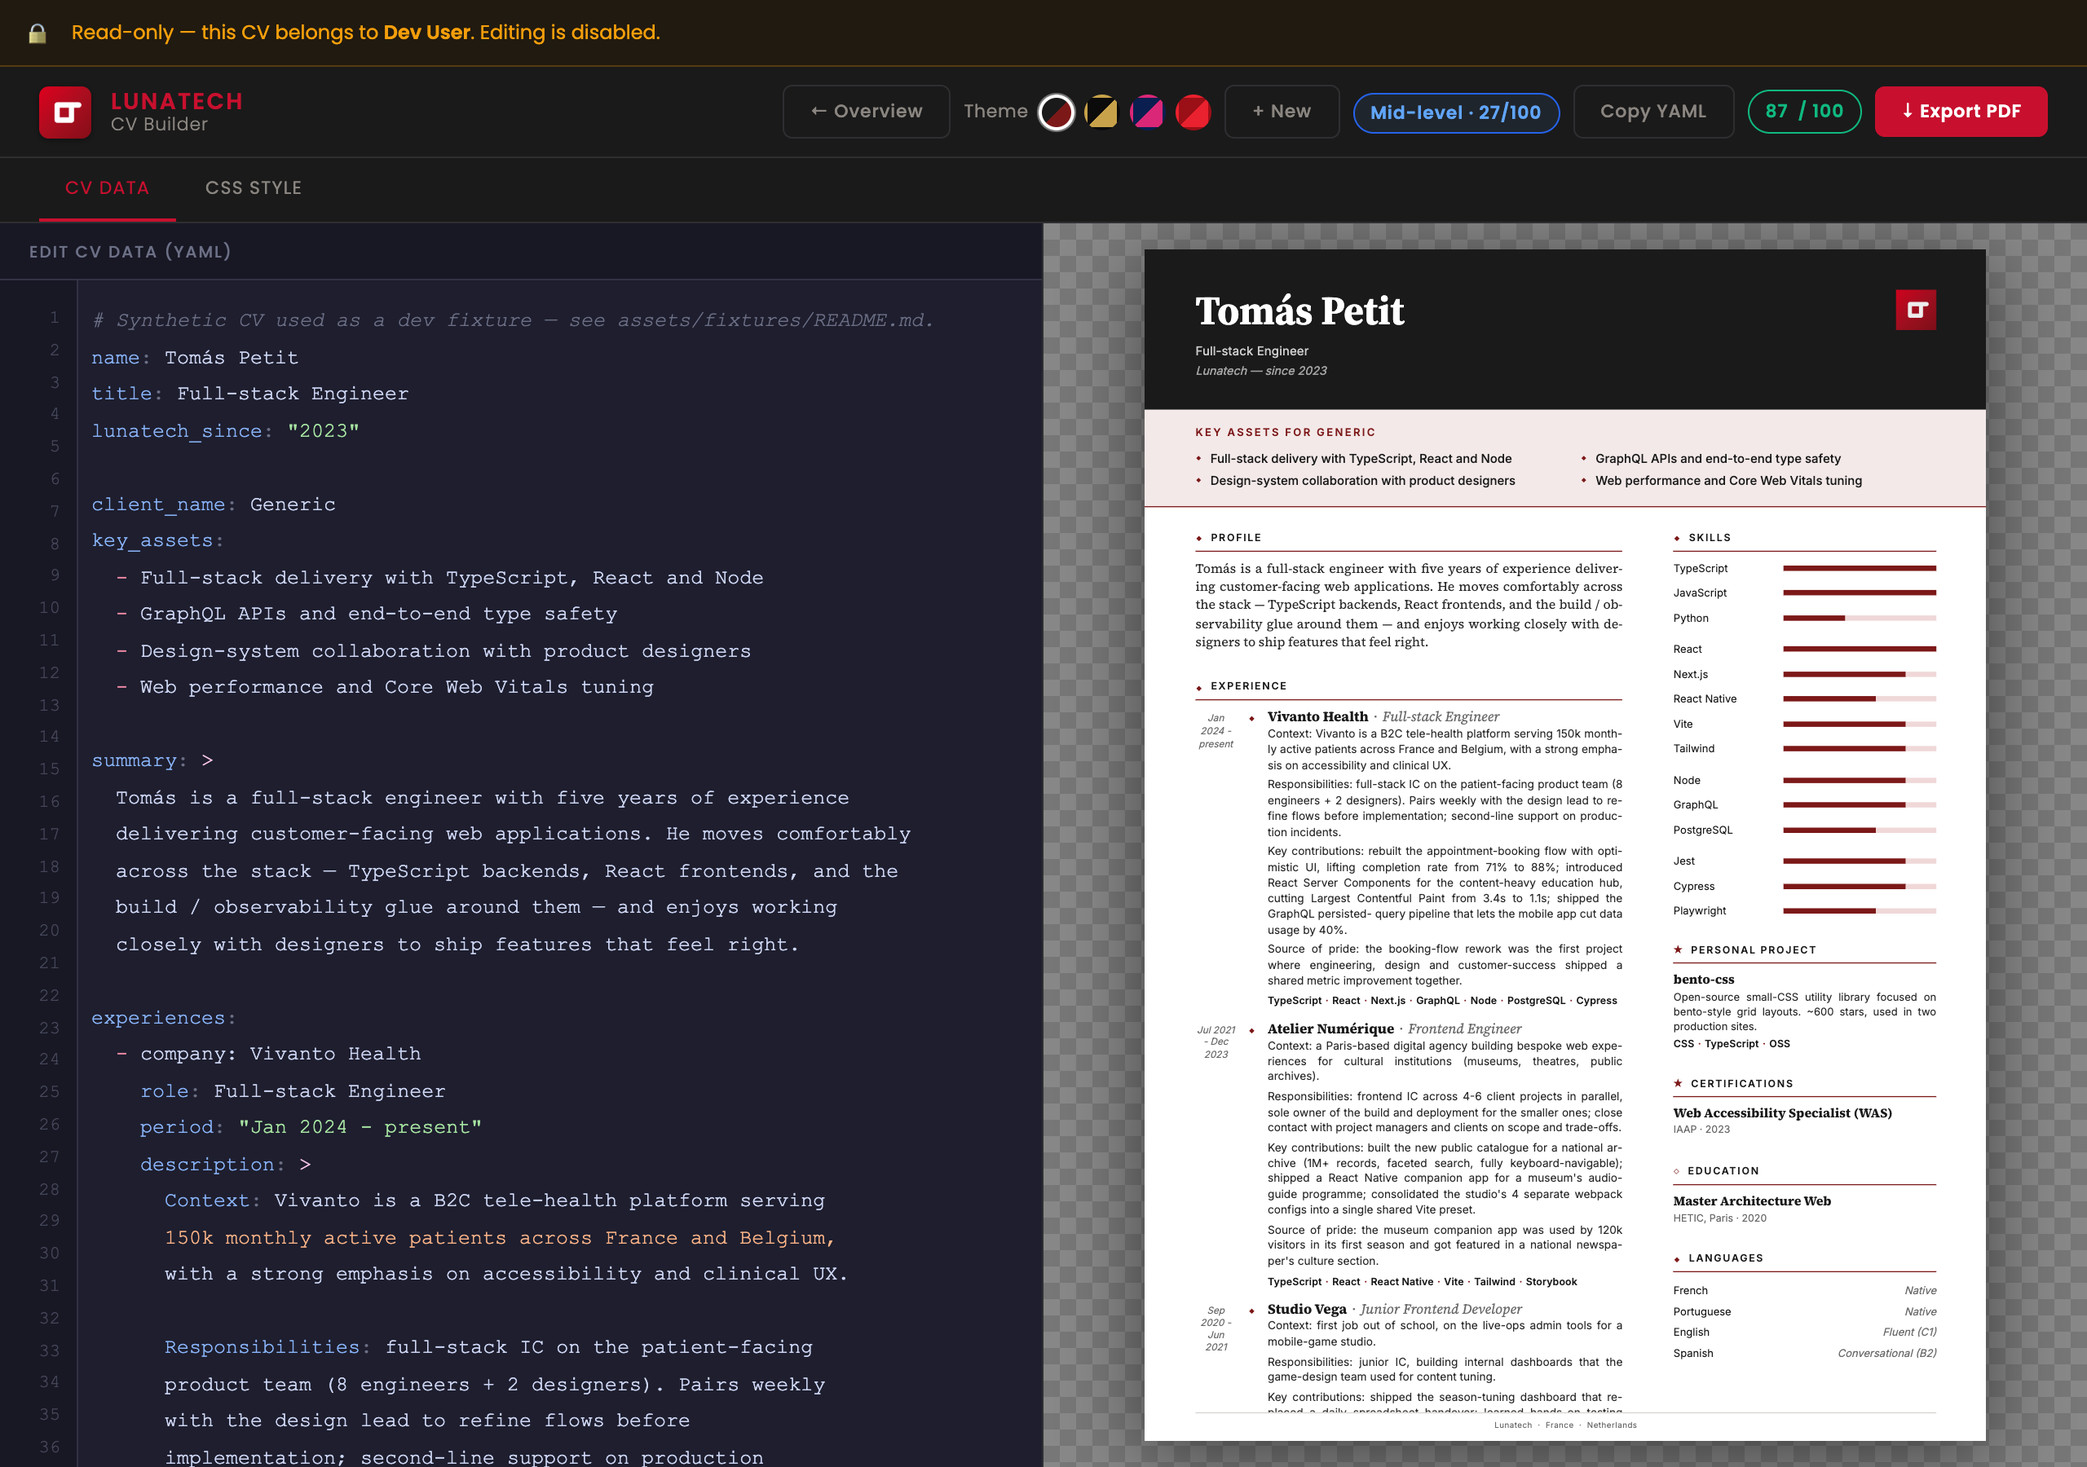
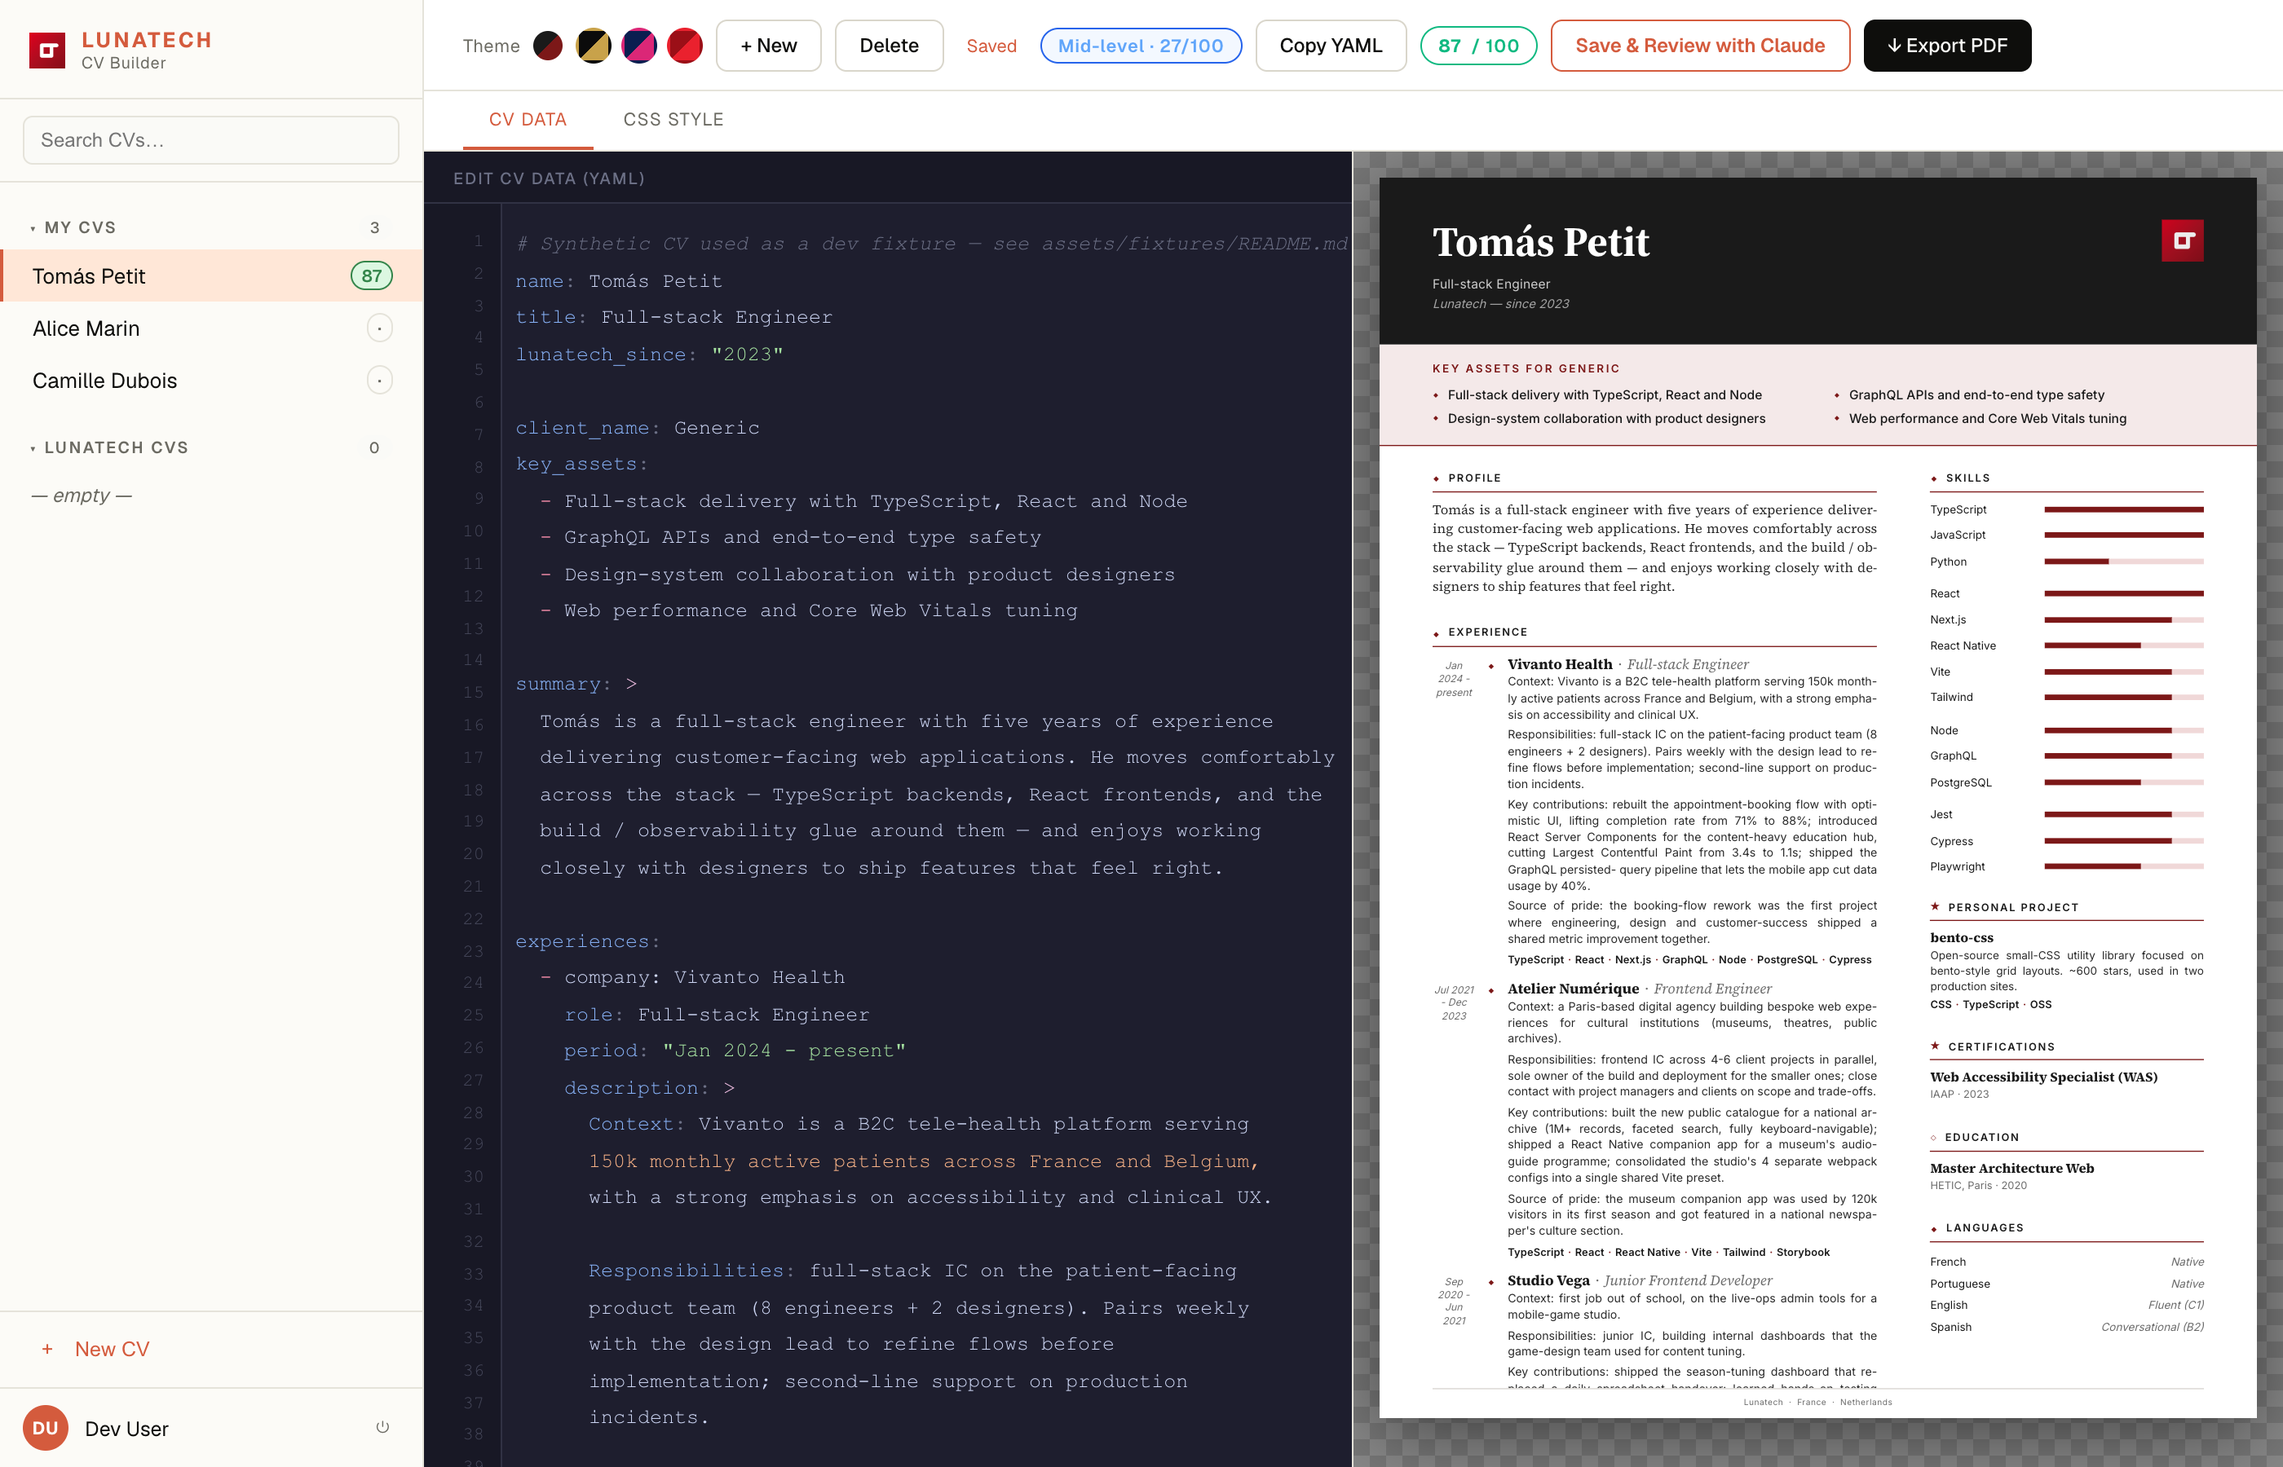
Switch UI chrome to the Ferrite Lunatech palette
The dark navy / magenta direction came from lunatech.com's marketing
site but Lunatech's modern product design is the Ferrite landing's
warm off-white + rust + Instrument Serif combo. Aligning so the CV
Builder, Ferrite, and any future Lunatech product share one design
language.

What changed on the chrome:
  --ui-bg        #0a0e1f navy   →  #FAFAF7 off-white
  --ui-surface   #101427        →  #FFFFFF
  --ui-surface-2 #1a2040        →  #FCFBF7 (warm sidebar)
  --ui-border    #1f2542        →  #E5E3DA
  --ui-text      #ece8e4 light  →  #0E0E0C near-black
  --ui-accent    #DB2777 mag.   →  oklch(0.62 0.16 35) rouille
  --ui-accent-soft               →  cream
  + --ui-good / --ui-warn / --ui-bad in oklch
  + --ui-accent-ink for terracotta accents

Fonts:
  body  Poppins  →  Geist (sans) + Inter fallback
  code  —        →  Geist Mono
  italic accents —  →  Instrument Serif (.serif helper)

Button convention follows Ferrite:
  primary = near-black ink (default strong action)
  accent  = rouille (reserved for review / brand moments)
  ghost   = outlined ink

Stripped setTheme()'s docRoot.style.setProperty calls that used to
flip --ui-bg / --ui-accent / etc. whenever the CV preview theme
changed — UI chrome and CV theme are now decoupled. The CV theme
switcher still drives data-theme on #cv-root for the preview and
the ?theme= query for the PDF render, as before.

The YAML code editor stays on its Catppuccin Mocha dark palette —
[…]

diff --git a/frontend/index.html b/frontend/index.html
@@ -5,23 +5,58 @@
 <meta name="viewport" content="width=device-width, initial-scale=1.0">
 <title>Lunatech CV Builder</title>
 <link rel="icon" type="image/png" href="/assets/lunatech-logo-alone.png">
-<link href="https://fonts.googleapis.com/css2?family=Inter:wght@400;500;600;700&family=Source+Serif+4:ital,opsz,wght@0,8..60,400;0,8..60,600;0,8..60,700;1,8..60,400;1,8..60,600&family=EB+Garamond:ital,wght@0,400;0,500;0,600;0,700;1,400;1,500&family=Poppins:ital,wght@0,300;0,400;0,500;0,600;1,300&display=swap" rel="stylesheet">
+<link rel="preconnect" href="https://fonts.googleapis.com">
+<link rel="preconnect" href="https://fonts.gstatic.com" crossorigin>
+<!-- UI: Geist (sans) + Geist Mono (code) + Instrument Serif (italic accents).
+     CV preview / PDF: Source Serif 4 + EB Garamond + Inter (unchanged). -->
+<link href="https://fonts.googleapis.com/css2?family=Geist:wght@300;400;500;600;700&family=Geist+Mono:wght@400;500&family=Instrument+Serif&family=Inter:wght@400;500;600;700&family=Source+Serif+4:ital,opsz,wght@0,8..60,400;0,8..60,600;0,8..60,700;1,8..60,400;1,8..60,600&family=EB+Garamond:ital,wght@0,400;0,500;0,600;0,700;1,400;1,500&display=swap" rel="stylesheet">
 <script src="https://cdnjs.cloudflare.com/ajax/libs/js-yaml/4.1.0/js-yaml.min.js"></script>
 <script src="https://cdn.jsdelivr.net/npm/marked@12.0.2/marked.min.js"></script>
 <style>
 *, *::before, *::after { box-sizing: border-box; margin: 0; padding: 0; }
 :root {
-  /* ── UI theme vars — Lunatech (rouge / noir) ── */
-  --ui-bg:      #0f0f10;
-  --ui-surface: #1a1a1a;
-  --ui-border:  #2e2e32;
-  --ui-accent:  #c8102e;
-  --ui-accent-deep: #7c1818;
-  --ui-text:    #ece8e4;
-  --ui-muted:   #8a8580;
-  --ui-tab-active: #c8102e;
+  /* ── UI theme vars — Lunatech "Ferrite" palette ──────────────────────
+     Off-white chaud + accent rouille + serif italique en accent
+     éditorial. Mêmes tokens que la landing Ferrite (sister product)
+     pour que tout l'écosystème Lunatech ait la même couleur de peau.
+     Fonts : Geist (sans), Geist Mono (code/numbers), Instrument Serif
+     (italic accents). */
+  --ui-bg:           #FAFAF7;                   /* off-white chaud */
+  --ui-bg-2:         #F3F2EC;                   /* hover, secondary surface */
+  --ui-surface:      #FFFFFF;                   /* cards */
+  --ui-surface-2:    #FCFBF7;                   /* sidebar (warm-tinted white) */
+  --ui-border:       #E5E3DA;                   /* hairline */
+  --ui-border-2:     #D9D6CB;                   /* stronger border */
+  --ui-text:         #0E0E0C;                   /* near-black ink */
+  --ui-text-2:       #2A2A26;                   /* secondary ink */
+  --ui-muted:        #6B6A62;                   /* muted brown-grey */
+  --ui-muted-2:      #9B9A91;
+  --ui-accent:       oklch(0.62 0.16 35);       /* rouille */
+  --ui-accent-ink:   oklch(0.42 0.14 35);       /* terracotta deep */
+  --ui-accent-soft:  oklch(0.95 0.04 50);       /* crème */
+  --ui-good:         oklch(0.55 0.12 150);      /* green */
+  --ui-good-soft:    oklch(0.95 0.04 150);
+  --ui-warn:         oklch(0.70 0.14 75);       /* amber */
+  --ui-bad:          oklch(0.58 0.18 25);       /* red */
+  --ui-bad-soft:     oklch(0.95 0.05 25);
+  --ui-accent-deep:  oklch(0.42 0.14 35);       /* alias pour le code historique */
+  --ui-tab-active:   oklch(0.62 0.16 35);
 }
-body { font-family: 'Poppins', sans-serif; background: var(--ui-bg); color: var(--ui-text); height: 100vh; display: flex; flex-direction: column; overflow: hidden; transition: background .3s, color .3s; }
+body {
+  font-family: 'Geist', 'Inter', -apple-system, system-ui, sans-serif;
+  font-feature-settings: 'ss01', 'cv11';
+  -webkit-font-smoothing: antialiased;
+  text-rendering: optimizeLegibility;
+  background: var(--ui-bg);
+  color: var(--ui-text);
+  height: 100vh;
+  display: flex;
+  flex-direction: column;
+  overflow: hidden;
+  transition: background .3s, color .3s;
+}
+.serif { font-family: 'Instrument Serif', Georgia, serif; font-style: italic; font-weight: 400; color: var(--ui-accent-ink); }
+.mono  { font-family: 'Geist Mono', ui-monospace, SFMono-Regular, Menlo, monospace; }
 .app-header { display: flex; align-items: center; justify-content: space-between; padding: 0 24px; height: 56px; border-bottom: 1px solid var(--ui-border); flex-shrink: 0; background: var(--ui-surface); transition: background .3s, border-color .3s; }
 .app-logo { display: flex; align-items: center; gap: 12px; font-size: 15px; font-weight: 600; letter-spacing: .04em; color: var(--ui-text); transition: color .3s; }
 .app-logo-mark { width: 32px; height: 32px; border-radius: 6px; flex-shrink: 0; box-shadow: 0 1px 4px rgba(0,0,0,.4); }
@@ -29,11 +64,16 @@ body { font-family: 'Poppins', sans-serif; background: var(--ui-bg); color: var(
 .app-logo-brand { font-size: 14px; font-weight: 600; letter-spacing: .08em; color: var(--ui-accent); text-transform: uppercase; }
 .app-logo-product { font-size: 11px; font-weight: 300; color: var(--ui-muted); letter-spacing: .04em; }
 .header-actions { display: flex; gap: 8px; align-items: center; }
-.btn { font-family: 'Poppins', sans-serif; font-size: 11px; font-weight: 500; padding: 7px 16px; border-radius: 6px; border: none; cursor: pointer; transition: all .2s; letter-spacing: .04em; }
-.btn-ghost { background: transparent; color: var(--ui-muted); border: 1px solid var(--ui-border); }
-.btn-ghost:hover { color: var(--ui-text); border-color: var(--ui-accent); }
-.btn-primary { background: var(--ui-accent); color: #fff; font-weight: 600; }
-.btn-primary:hover { filter: brightness(1.1); }
+.btn { font-family: 'Geist', 'Inter', sans-serif; font-size: 12px; font-weight: 500; padding: 7px 14px; border-radius: 7px; border: 1px solid transparent; cursor: pointer; transition: all .15s; letter-spacing: -.005em; }
+/* Following the Ferrite convention: primary = near-black ink (default
+   strong action), accent = rust (reserved for review / brand moments),
+   ghost = outlined ink. */
+.btn-ghost { background: transparent; color: var(--ui-text); border: 1px solid var(--ui-border-2); }
+.btn-ghost:hover { background: var(--ui-bg-2); }
+.btn-primary { background: var(--ui-text); color: var(--ui-bg); font-weight: 500; }
+.btn-primary:hover { background: #000; }
+.btn-accent { background: var(--ui-accent); color: #fff; font-weight: 500; }
+.btn-accent:hover { filter: brightness(.95); }
 .btn-export-bundle { background: transparent; color: var(--ui-accent); border: 1px solid var(--ui-accent); font-weight: 600; }
 .btn-export-bundle:hover { background: var(--ui-accent); color: #fff; }
 
@@ -522,8 +562,8 @@ body { font-family: 'Poppins', sans-serif; background: var(--ui-bg); color: var(
 .review-modal-body li { margin: 3px 0; }
 .review-modal-body table { border-collapse: collapse; margin: 10px 0; font-size: 12.5px; }
 .review-modal-body th, .review-modal-body td { padding: 6px 10px; border: 1px solid var(--ui-border); text-align: left; }
-.review-modal-body th { background: rgba(255,255,255,.04); font-weight: 600; }
-.review-modal-body code { font-family: 'Fira Code', monospace; font-size: 12px; background: rgba(255,255,255,.06); padding: 1px 5px; border-radius: 3px; }
+.review-modal-body th { background: var(--ui-bg-2); font-weight: 600; }
+.review-modal-body code { font-family: 'Geist Mono', 'Fira Code', monospace; font-size: 12px; background: var(--ui-bg-2); padding: 1px 5px; border-radius: 3px; }
 .review-modal-body strong { color: var(--ui-text); }
 .review-modal-footer {
   display: flex; align-items: center; gap: 10px;
@@ -546,7 +586,7 @@ body { font-family: 'Poppins', sans-serif; background: var(--ui-bg); color: var(
 .batch-counts { font-size: 13px; color: var(--ui-muted); margin-bottom: 8px; }
 .batch-counts strong { color: var(--ui-text); font-weight: 600; }
 .batch-bar {
-  height: 8px; background: rgba(255,255,255,.06);
+  height: 8px; background: var(--ui-bg-2);
   border: 1px solid var(--ui-border); border-radius: 999px; overflow: hidden;
   margin: 0 0 16px;
 }
@@ -737,11 +777,14 @@ body { font-family: 'Poppins', sans-serif; background: var(--ui-bg); color: var(
   overflow: hidden;
 }
 
-/* ── Sidebar ── */
+/* ── Sidebar ──
+   Warm-tinted surface (FCFBF7) so the sidebar sits as a soft column
+   against the off-white workspace (FAFAF7). The 1px right border is
+   the dividing line, not a colour shift. */
 .sidebar {
   width: 260px;
   flex-shrink: 0;
-  background: var(--ui-surface);
+  background: var(--ui-surface-2);
   border-right: 1px solid var(--ui-border);
   display: flex;
   flex-direction: column;
@@ -754,7 +797,7 @@ body { font-family: 'Poppins', sans-serif; background: var(--ui-bg); color: var(
   border-bottom: 1px solid var(--ui-border);
   cursor: pointer;
 }
-.sidebar-brand:hover { background: rgba(255,255,255,.02); }
+.sidebar-brand:hover { background: var(--ui-bg-2); }
 .sidebar-brand img { width: 22px; height: 22px; }
 .sidebar-brand-text { display: flex; flex-direction: column; line-height: 1; }
 .sidebar-brand-mark {
@@ -813,9 +856,9 @@ body { font-family: 'Poppins', sans-serif; background: var(--ui-bg); color: var(
   border-left: 2px solid transparent;
   position: relative;
 }
-.sidebar-item:hover { background: rgba(255,255,255,.03); }
+.sidebar-item:hover { background: var(--ui-bg-2); }
 .sidebar-item.active {
-  background: var(--ui-accent-soft, rgba(200,16,46,.10));
+  background: var(--ui-accent-soft);
   border-left-color: var(--ui-accent);
   color: var(--ui-text);
 }
@@ -826,9 +869,9 @@ body { font-family: 'Poppins', sans-serif; background: var(--ui-bg); color: var(
   border: 1px solid var(--ui-border);
   flex-shrink: 0;
 }
-.sidebar-item-score.score-high { color: #10b981; border-color: rgba(16,185,129,.5); }
-.sidebar-item-score.score-mid  { color: #f59e0b; border-color: rgba(245,158,11,.5); }
-.sidebar-item-score.score-low  { color: #ef4444; border-color: rgba(239,68,68,.5); }
+.sidebar-item-score.score-high { color: var(--ui-good); border-color: var(--ui-good); background: var(--ui-good-soft); }
+.sidebar-item-score.score-mid  { color: var(--ui-warn); border-color: var(--ui-warn); background: var(--ui-accent-soft); }
+.sidebar-item-score.score-low  { color: var(--ui-bad);  border-color: var(--ui-bad);  background: var(--ui-bad-soft); }
 .sidebar-list-empty {
   padding: 8px 18px;
   font-size: 12px; color: var(--ui-muted); font-style: italic;
@@ -847,9 +890,9 @@ body { font-family: 'Poppins', sans-serif; background: var(--ui-bg); color: var(
   cursor: pointer; text-align: left;
   transition: background .12s, color .12s;
 }
-.sidebar-action:hover { color: var(--ui-text); background: rgba(255,255,255,.04); }
+.sidebar-action:hover { color: var(--ui-text); background: var(--ui-bg-2); }
 .sidebar-action.primary { color: var(--ui-accent); }
-.sidebar-action.primary:hover { background: var(--ui-accent-soft, rgba(200,16,46,.10)); }
+.sidebar-action.primary:hover { background: var(--ui-accent-soft); }
 .sidebar-action .glyph { width: 14px; text-align: center; }
 
 .sidebar-user {
@@ -1440,49 +1483,20 @@ function renderCV(data) {
 }
 
 // ══════════════════════════════════════════════════════════
-// THEME SWITCHER
+// THEME SWITCHER (CV preview / PDF theme only)
 // ══════════════════════════════════════════════════════════
-// UI palette per CV theme — drives the builder chrome
-var THEME_UI = {
-  lunatech: {
-    bg: '#0f0f10', surface: '#1a1a1a', border: '#2e2e32',
-    accent: '#c8102e', text: '#ece8e4', muted: '#8a8580', tab: '#c8102e'
-  },
-  luxe: {
-    bg: '#0a0905', surface: '#16130c', border: '#2e2a1e',
-    accent: '#c8a24a', text: '#f0ead8', muted: '#7a7060', tab: '#c8a24a'
-  },
-  cosmic: {
-    bg: '#0a0a14', surface: '#13131e', border: '#22223a',
-    accent: '#DB2777', text: '#e8e4f0', muted: '#7a7592', tab: '#DB2777'
-  },
-  opera: {
-    bg: '#100808', surface: '#1c1010', border: '#321818',
-    accent: '#ea212e', text: '#ede8e6', muted: '#7a6a68', tab: '#ea212e'
-  }
-};
-
+// The theme buttons in the editor toolbar select the *CV* palette
+// (lunatech red / luxe gold / cosmic magenta / opera red) which is
+// reflected in the live preview and forwarded to the PDF endpoint
+// via ?theme=. The app's own chrome stays on the Ferrite palette
+// (rouille / crème) defined at the top of <style> — independent of
+// which CV theme the user is editing.
 var currentTheme = 'lunatech';
 
 function setTheme(theme) {
   currentTheme = theme;
-
-  // ── CV template theme ──
   var root = document.getElementById('cv-root');
   if (root) root.setAttribute('data-theme', theme);
-
-  // ── UI palette ──
-  var ui = THEME_UI[theme] || THEME_UI.lunatech;
-  var docRoot = document.documentElement;
-  docRoot.style.setProperty('--ui-bg',         ui.bg);
-  docRoot.style.setProperty('--ui-surface',    ui.surface);
-  docRoot.style.setProperty('--ui-border',     ui.border);
-  docRoot.style.setProperty('--ui-accent',     ui.accent);
-  docRoot.style.setProperty('--ui-text',       ui.text);
-  docRoot.style.setProperty('--ui-muted',      ui.muted);
-  docRoot.style.setProperty('--ui-tab-active', ui.tab);
-
-  // ── Active dot ──
   document.querySelectorAll('.theme-btn').forEach(function(b) { b.classList.remove('active'); });
   var active = document.querySelector('.theme-btn-' + theme);
   if (active) active.classList.add('active');
